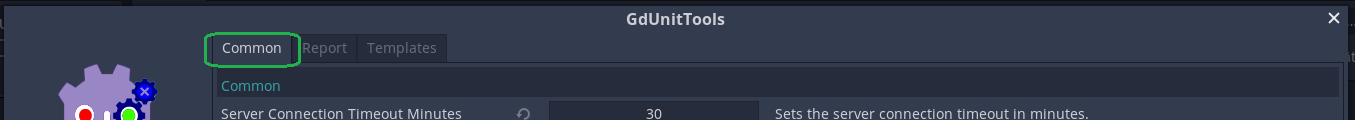
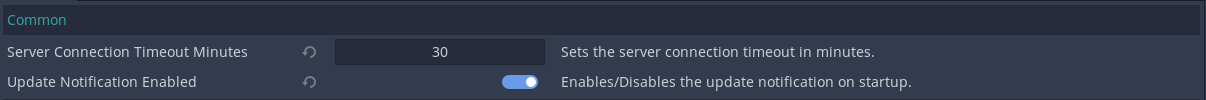
GD-353: Update documentation to v2.4.0 (#366)
* GD-353: Update documentation to v2.4.0

- Adding an option to configure the collapse behavior of the inspection tree
- Adding an option to configure to allow compare real vs int
- Document the difference between runtime and debug test execution.
- Document mouse_move and mouse_press, mouse_pressed changes
- Added inspector description

diff --git a/assets/css/tab.css b/assets/css/tab.css
@@ -20,7 +20,7 @@
 
 .tab>*>a {
     display: block;
-    text-align: center;
+    text-align: left;
     padding: 0px 10px;
     color: #999;
     border-bottom: 4px solid transparent;
@@ -72,4 +72,8 @@ ul.tab-content>li::before {
 
 .tab-content li.active {
     display: initial;
+}
+
+th, td {
+    text-align: left;
 }

diff --git a/_advanced_testing/sceneRunner.md b/_advanced_testing/sceneRunner.md
@@ -30,6 +30,12 @@ Use the scene runner with **ISceneRunner.Load(\<scene\>)** in which you load the
 {% endtabs %}
 
 
+{% include advice.html
+content="You need to complete key or mouse simulations finally a minimum of one frame to complete the input event!<br>
+You have to add `yield(await_idle_frame(), 'completed')`"
+%}
+
+
 For more advanced example, see [Tutorial - Testing Scenes](/gdUnit3/tutorials/tutorial_scene_runner/#using-scene-runner)
 
 ### Function Overview
@@ -41,9 +47,10 @@ For more advanced example, see [Tutorial - Testing Scenes](/gdUnit3/tutorials/tu
 |[simulate_key_pressed](/gdUnit3/advanced_testing/sceneRunner/#simulate_key_pressed) | Simulates that a key has been pressed |
 |[simulate_key_press](/gdUnit3/advanced_testing/sceneRunner/#simulate_key_press) | Simulates that a key is pressed |
 |[simulate_key_release](/gdUnit3/advanced_testing/sceneRunner/#simulate_key_release) | Simulates that a key has been released |
-|[simulate_mouse_move](/gdUnit3/advanced_testing/sceneRunner/#simulate_mouse_move) | Simulates a mouse moved to relative position by given speed |
+|[simulate_mouse_move](/gdUnit3/advanced_testing/sceneRunner/#simulate_mouse_move) | Simulates a mouse moved to final position |
+|[simulate_mouse_move_relative](/gdUnit3/advanced_testing/sceneRunner/#simulate_mouse_move_relative) | Simulates a mouse move by an offset and speed |
 |[simulate_mouse_button_pressed](/gdUnit3/advanced_testing/sceneRunner/#simulate_mouse_button_pressed) | Simulates a mouse button pressed |
-|[simulate_mouse_button_press](/gdUnit3/advanced_testing/sceneRunner/#simulate_mouse_button_press) ] | Simulates a mouse button press (holding) |
+|[simulate_mouse_button_press](/gdUnit3/advanced_testing/sceneRunner/#simulate_mouse_button_press) | Simulates a mouse button press (holding) |
 |[simulate_mouse_button_release](/gdUnit3/advanced_testing/sceneRunner/#simulate_mouse_button_release) | Simulates a mouse button released |
 |[simulate_frames](/gdUnit3/advanced_testing/sceneRunner/#simulate_frames) | Simulates scene processing for a certain number of frames (respecting time factor)|
 |[set_mouse_pos](/gdUnit3/advanced_testing/sceneRunner/#set_mouse_pos) | Sets the mouse cursor to given position relative to the viewport.|
@@ -62,7 +69,7 @@ For more advanced example, see [Tutorial - Testing Scenes](/gdUnit3/tutorials/tu
 |[SimulateKeyPressed](/gdUnit3/advanced_testing/sceneRunner/#simulate_key_pressed) | Simulates that a key has been pressed |
 |[SimulateKeyPress](/gdUnit3/advanced_testing/sceneRunner/#simulate_key_press) | Simulates that a key is pressed |
 |[SimulateKeyRelease](/gdUnit3/advanced_testing/sceneRunner/#simulate_key_release) | Simulates that a key has been released |
-|[SimulateMouseMove](/gdUnit3/advanced_testing/sceneRunner/#simulate_mouse_move) | Simulates a mouse moved to relative position by given speed |
+|[SimulateMouseMove](/gdUnit3/advanced_testing/sceneRunner/#simulate_mouse_move) | Simulates a mouse moved to final position |
 |[SimulateMouseButtonPressed](/gdUnit3/advanced_testing/sceneRunner/#simulate_mouse_button_pressed) | Simulates a mouse button pressed |
 |[SimulateMouseButtonPress](/gdUnit3/advanced_testing/sceneRunner/#simulate_mouse_button_press) ] | Simulates a mouse button press (holding) |
 |[SimulateMouseButtonRelease](/gdUnit3/advanced_testing/sceneRunner/#simulate_mouse_button_release) | Simulates a mouse button released |
@@ -92,9 +99,11 @@ Simulates that a key has been pressed.
 ```ruby
     # simulate the enter key is pressed
     runner.simulate_key_pressed(KEY_ENTER)
+    yield(await_idle_frame(), "completed")
 
     # simulates key combination ctrl+C is pressed
     runner.simulate_key_pressed(KEY_C, false, true)
+    yield(await_idle_frame(), "completed")
 ```
 {% endtab %}
 {% tab scene-runner-simulate_key_pressed C# %}
@@ -131,9 +140,11 @@ Simulates that a key is press.
 ```ruby
     # simulate the enter key is press
     runner.simulate_key_press(KEY_ENTER)
+    yield(await_idle_frame(), "completed")
 
     # simulates key combination ctrl+C is pressed
     runner.simulate_key_press(KEY_C, false, true)
+    yield(await_idle_frame(), "completed")
 ```
 {% endtab %}
 {% tab scene-runner-simulate_key_press c# %}
@@ -171,9 +182,11 @@ Simulates that a key has been released
 ```ruby
     # simulate a enter key is released
     runner.simulate_key_release(KEY_ENTER)
+    yield(await_idle_frame(), "completed")
 
     # simulates key combination ctrl+C is released
     runner.simulate_key_release(KEY_C, false, true)
+    yield(await_idle_frame(), "completed")
 ```
 {% endtab %}
 {% tab scene-runner-simulate_key_release C# %}
@@ -199,20 +212,21 @@ Simulates that a key has been released
 
 
 ### simulate_mouse_move
-Simulates a mouse moved to relative position by given speed
+Simulates a mouse moved to final position
 {% tabs scene-runner-simulate_mouse_move %}
 {% tab scene-runner-simulate_mouse_move GdScript %}
 ```ruby
-    # relative: The mouse position relative to the previous position (position at the last frame).
-    # speed : The mouse speed in pixels per second.‚
-    func simulate_mouse_move(<relative> :Vector2, [speed] :Vector2) -> GdUnitSceneRunner:
+    # position: The final mouse position
+    func simulate_mouse_move(<position> :Vector2) -> GdUnitSceneRunner:
 ```
 ```ruby
     # set mouse pos to a inital position
     runner.set_mouse_pos(Vector2(160, 20))
+    yield(await_idle_frame(), "completed")
 
-    # simulates a mouse move to final position 200,40
+    # simulates a mouse move to final position 200, 40
     runner.simulate_mouse_move(Vector2(200, 40))
+    yield(await_idle_frame(), "completed")
 ```
 {% endtab %}
 {% tab scene-runner-simulate_mouse_move C# %}
@@ -236,17 +250,41 @@ Simulates a mouse moved to relative position by given speed
 {% endtabs %}
 
 
+### simulate_mouse_move_relative
+Simulates a mouse move by given offset and speed to the final position.
+{% tabs scene-runner-simulate_mouse_move_relative %}
+{% tab scene-runner-simulate_mouse_move_relative GdScript %}
+```ruby
+    # relative: The relative position, e.g. the mouse position offset
+    # speed : The mouse speed in pixels per second.
+    func simulate_mouse_move_relative(<relative> :Vector2, <speed> :Vector2) -> GdUnitSceneRunner:
+```
+```ruby
+    # set mouse pos to a inital position
+    runner.set_mouse_pos(Vector2(10, 20))
+    yield(await_idle_frame(), "completed")
+
+    # simulates a full mouse move from current position + the given offset (400, 200) with a speed of (.2, 1)
+    # the final position will be (410, 220) when is completed
+    yield(runner.simulate_mouse_move_relative(Vector2(400, 200), Vector2(.2, 1)), "completed")
+```
+{% endtab %}
+{% endtabs %}
+
+
 ### simulate_mouse_button_pressed
 Simulates a mouse button pressed
 {% tabs scene-runner-simulate_mouse_button_pressed %}
 {% tab scene-runner-simulate_mouse_button_pressed GdScript %}
 ```ruby
     # buttonIndex: The mouse button identifier, one of the ButtonList button or button wheel constants.
-    func simulate_mouse_button_pressed(<buttonIndex> :int) -> GdUnitSceneRunner:
+    # double_click: set to true to simmulate a doubleclick
+    func simulate_mouse_button_pressed(<buttonIndex> :int, <double_click>:=false) -> GdUnitSceneRunner:
 ```
 ```ruby
     # simulates mouse left button pressed
     runner.simulate_mouse_button_pressed(BUTTON_LEFT)
+    yield(await_idle_frame(), "completed")
 ```
 {% endtab %}
 {% tab scene-runner-simulate_mouse_button_pressed C# %}
@@ -272,11 +310,13 @@ Simulates a mouse button press (holding)
 {% tab scene-runner-simulate_mouse_button_press GdScript %}
 ```ruby
     # buttonIndex: The mouse button identifier, one of the ButtonList button or button wheel constants.
-    func simulate_mouse_button_press(<buttonIndex> :int) -> GdUnitSceneRunner:
+    # double_click: set to true to simmulate a doubleclick
+    func simulate_mouse_button_press(<buttonIndex> :int, <double_click>:=false) -> GdUnitSceneRunner:
 ```
 ```ruby
     # simulates mouse left button is press
     runner.simulate_mouse_button_press(BUTTON_LEFT)
+    yield(await_idle_frame(), "completed")
 ```
 {% endtab %}
 {% tab scene-runner-simulate_mouse_button_press C# %}
@@ -307,6 +347,7 @@ Simulates a mouse button released
 ```ruby
     # simulates mouse left button is released
     runner.simulate_mouse_button_release(BUTTON_LEFT)
+    yield(await_idle_frame(), "completed")
 ```
 {% endtab %}
 {% tab scene-runner-simulate_mouse_button_release C# %}
@@ -559,6 +600,7 @@ Sets the mouse cursor to given position relative to the viewport.
 ```ruby
     # sets the current mouse position to 100, 100
     runner.set_mouse_pos(Vector2(100, 100))
+    yield(await_idle_frame(), "completed")
 ```
 {% endtab %}
 {% tab scene-runner-set_mouse_pos C# %}

diff --git a/_faq/inspector.md b/_faq/inspector.md
@@ -1,0 +1,81 @@
+---
+layout: default
+title: Inspector
+nav_order: 1
+---
+
+# The GdUnit Test Inspector/Explorer
+
+
+## Definition
+The GdUnit inspector gives an overview of the currently executed tests and allows you to navigate over them. This allows you to select individual tests and view possible test failures for them. The integrated status and info bar gives you a quick overview of the last test run.<br>
+
+![](/gdUnit3/assets/images/inspector/inspector.png)
+- [(1) Button bar](#button-bar)
+- [(2) Status bar](#status-bar)
+- [(3) Test run overview](#testrun-overview)
+- [(4) Failure report](#failure-report)
+- [(5) Info bar](#info-bar)
+
+
+
+### Button Bar
+
+This bar contains a number of buttons that allow you to open the documentation or configure the execution behavior of GdUnit, as well as restart the last executed tests.<br>
+![](/gdUnit3/assets/images/inspector/button-bar.png)
+
+|Button|Description|
+|--- | --- |
+|(1)| Opens the browser to the GdUnit documentation page |
+|(2)| Opens the GdUnit settings |
+|(3)| (Re)Run test's (Runtime mode) |
+|(4)| (Re)Run debug test's (Debug mode)) |
+|(5)| Stops current test run |
+|(6)| GdUnit version info |
+
+{% include advice.html 
+content="You should first run your tests in debug mode(4) to get the failure line in the report.<br>
+Godot does not provide stack trace information when running in runtime mode(3) and therefore will not display an failure line in the report."
+%}
+
+### Status Bar
+
+This area gives you information about the current/last test execution, such as the progress and errors/failures found.<br>
+With the arrow buttons you can navigate back and forth over found failures.<br>
+![](/gdUnit3/assets/images/inspector/status-bar.png)
+
+|Button|Description|
+|--- | --- |
+|(1)| Test execution progress (indicator of testrun)|
+|(2)| Number of errors found |
+|(3)| Number of failures found |
+|(4)| Navigate to previous failure |
+|(5)| Navigate to next failure |
+
+{% include advice.html 
+content="Whats the difference between errors and failures?<br>
+GdUnit distinguishes between errors and failures. An error is a hard failure such as a test abort or timeout, while a failure is a test error caused by a failed assertion."
+%}
+
+
+### Testrun Overview
+This area gives you an overview of all executed/executing tests and their execution status in real time.<br>
+Here you can navigate through the tests and view the report for each individual test by selecting it. With a right click you can open a context menu and run the currently selected test or test suite again.<br>
+![](/gdUnit3/assets/images/inspector/test-overview.png)
+
+{% include advice.html 
+content="By double-clicking, you can jump directly to the test or test error if an failure line reported Debug Mode(4)."
+%}
+
+### Failure Report
+This area displays the failure report of the currently selected failed test.<br>
+GdUnit generates the failure report based on the used assert according to the scheme **expected** vs **current** value.
+![](/gdUnit3/assets/images/inspector/report.png)
+
+### Info Bar
+
+This section provides you with information about the total duration of the test execution and about any orphaned nodes found.<br>
+![](/gdUnit3/assets/images/inspector/info-bar.png)
+
+
+---

diff --git a/_first_steps/settings.md b/_first_steps/settings.md
@@ -5,20 +5,24 @@ nav_order: 2
 ---
 
 # Settings
+To open the setting press the tools button on the GdUnit inspector.<br>
 ![](/gdUnit3/assets/images/settings/inspector-settings.png)
 
-To open the setting press the tools button on the GdUnit inspector.
+![](/gdUnit3/assets/images/settings/settings-dialog.png)
 
 ---
 
 ## Common Settings
+### Common
 ![](/gdUnit3/assets/images/settings/settings-common.png)
-#### **server connection timout**
-The server connection timout specifies the maximum time in minutes that the test runner client waits when the communication between editor and runner is interrupted.
+#### **server connection timeout**
+The server connection timeout specifies the maximum time in minutes that the test runner client waits when the communication between editor and runner is interrupted.
 
 #### **update notification enabled**
 Enables/disables the GdUnit update notification. When enabled, an update notification is displayed when Godot is started to inform about a new update to be installed.
 
+### Test
+![](/gdUnit3/assets/images/settings/settings-test.png)
 #### **test root folder**
 Defines the root folder where tests are generated.
 
@@ -38,7 +42,6 @@ Configures how to generate the test-suite file name.
 Configures the default timeout for the test case in seconds. If a test case runs longer than the specified timeout, the test is interrupted and fails.
 The default timeout can be overriden on test-case level by using the argument *timeout*.
 
-
 {% tabs settings-timeout %}
 {% tab settings-timeout GdScript %}
 ```ruby
@@ -57,12 +60,26 @@ The default timeout can be overriden on test-case level by using the argument *t
 {% endtab %}
 {% endtabs %}
 
+### UI
+![](/gdUnit3/assets/images/settings/settings-ui.png)
+#### **inspector node collapse**
+Controls whether the testsuite node in the Inspector is collapsed after a successful test run.
+By default, the testsuite node is collapsed when all tests are successful.
+
 ---
 
 ## Report Settings
 ![](/gdUnit3/assets/images/settings/settings-report.png)
 
+
 ### Asserts 
+![](/gdUnit3/assets/images/settings/settings-asserts.png)
+#### **strict number type compare**
+Controls how numbers are compared.<br>
+By default GdUnit does a typesave comparison and will always fail if you compare **int** with **float** even if they are supposed to have the same value.<br>
+To allow equal values e.g. 0 == 0.0 you can switch off this configuration.
+
+
 #### **verbose errors**
 Suppresses internal error reporting for failed assert conditions.
 
@@ -70,6 +87,7 @@ Suppresses internal error reporting for failed assert conditions.
 Suppresses internal warning reporting for failed assert conditions.
 
 ### Godot
+![](/gdUnit3/assets/images/settings/settings-godot.png)
 #### **Push Error**
 Reports Godot push_error() notifications and let the test fail (default disabled)
 
@@ -77,6 +95,7 @@ Reports Godot push_error() notifications and let the test fail (default disabled
 Reports Godot gd script errors and let the test fail
 
 ### Common
+![](/gdUnit3/assets/images/settings/settings-report-others.png)
 #### **verbose orphans**
 Enable/disable the orphan node reporting
 

diff --git a/index.md b/index.md
@@ -11,7 +11,8 @@ title: Home
 ## What is GdUnit3?
 **Gd**(*Godot*)**Unit**(*Unit Testing*)**3**(*Godot 3.x*)
 
-GdUnit3 is an embeded unit testing framework for testing your Gd, C# Scripts and Scenes within the Godot editor. GdUnit3 is very useful for [TDD (test driven development)](https://en.wikipedia.org/wiki/Test-driven_development){:target="_blank"} and will help you get your code bug-free.
+GdUnit3 is an embeded unit testing framework for testing your Gd, C# Scripts and Scenes within the Godot editor.<br>
+You can use it for  [TDD (test driven development)](https://en.wikipedia.org/wiki/Test-driven_development){:target="_blank"} and will help you get your code bug-free.
 
 
 ## You are welcome to:
@@ -56,7 +57,9 @@ class_name GdUnitExampleTest
 extends GdUnitTestSuite
 
 func test_example():
-	assert_str("This is a example message").has_length(25).starts_with("This is a ex")
+  assert_str("This is a example message")\
+    .has_length(25)\
+    .starts_with("This is a ex")
 ```
 {% endtab %}
 
@@ -73,7 +76,9 @@ namespace examples
         [TestCase]
         public void Example()
         {
-            AssertString("This is a example message").HasLength(25).StartsWith("This is a ex");
+            AssertString("This is a example message")
+              .HasLength(25)
+              .StartsWith("This is a ex");
         }
     }
 }

diff --git a/_first_steps/firstTest.md b/_first_steps/firstTest.md
@@ -93,7 +93,8 @@ func test_full_name() -> void:
 {% endtabs %}
 
 
-Do re run the test by press the "Run Button" on the inspector
+Now run the test again by pressing the **Run Debug Button** in the inspector.<br>
+For more details about the inspector buttons, see [Button Bar](/gdUnit3/faq/inspector/#button-bar)
 
 ![](/gdUnit3/assets/images/first-steps/rerun-test.png)
 
